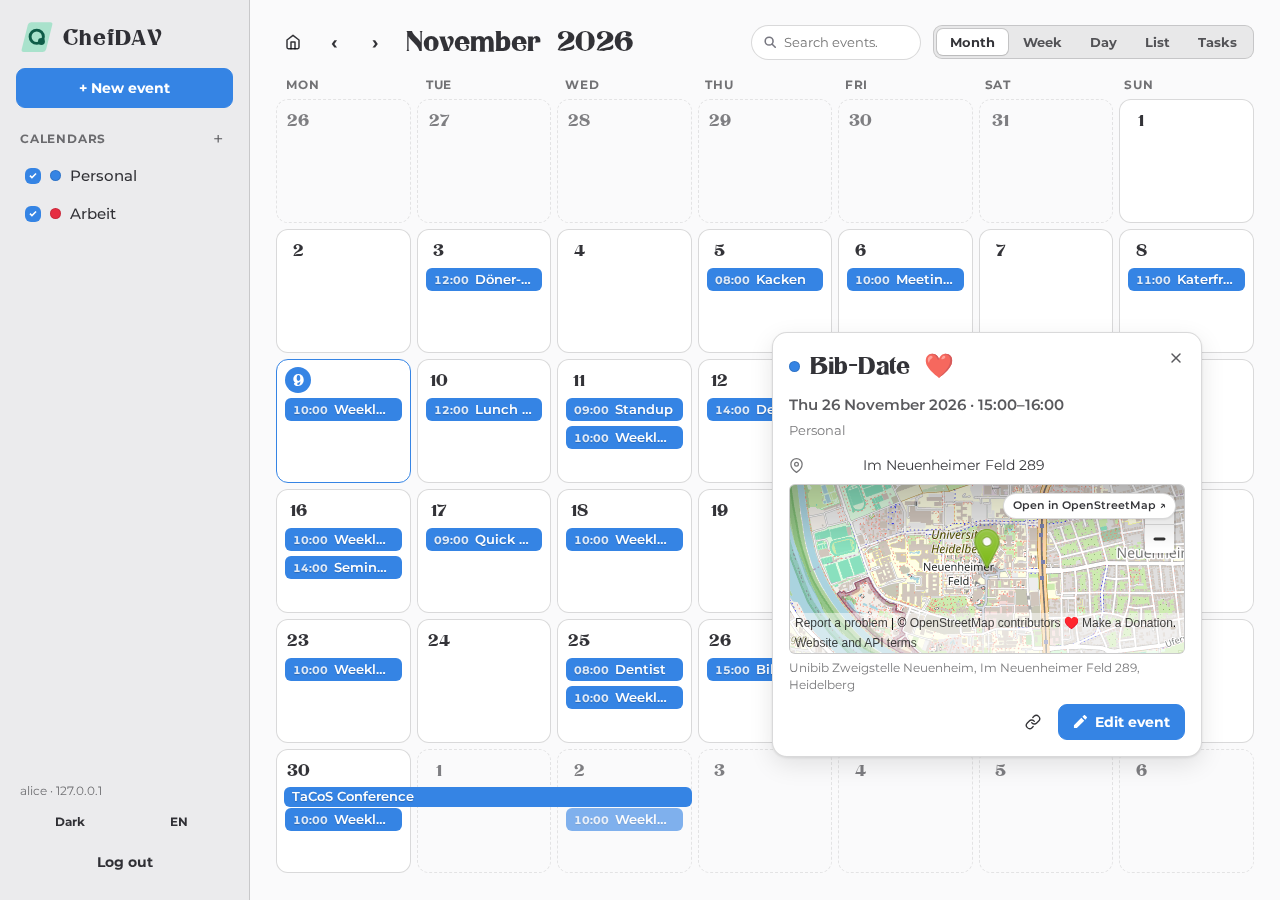
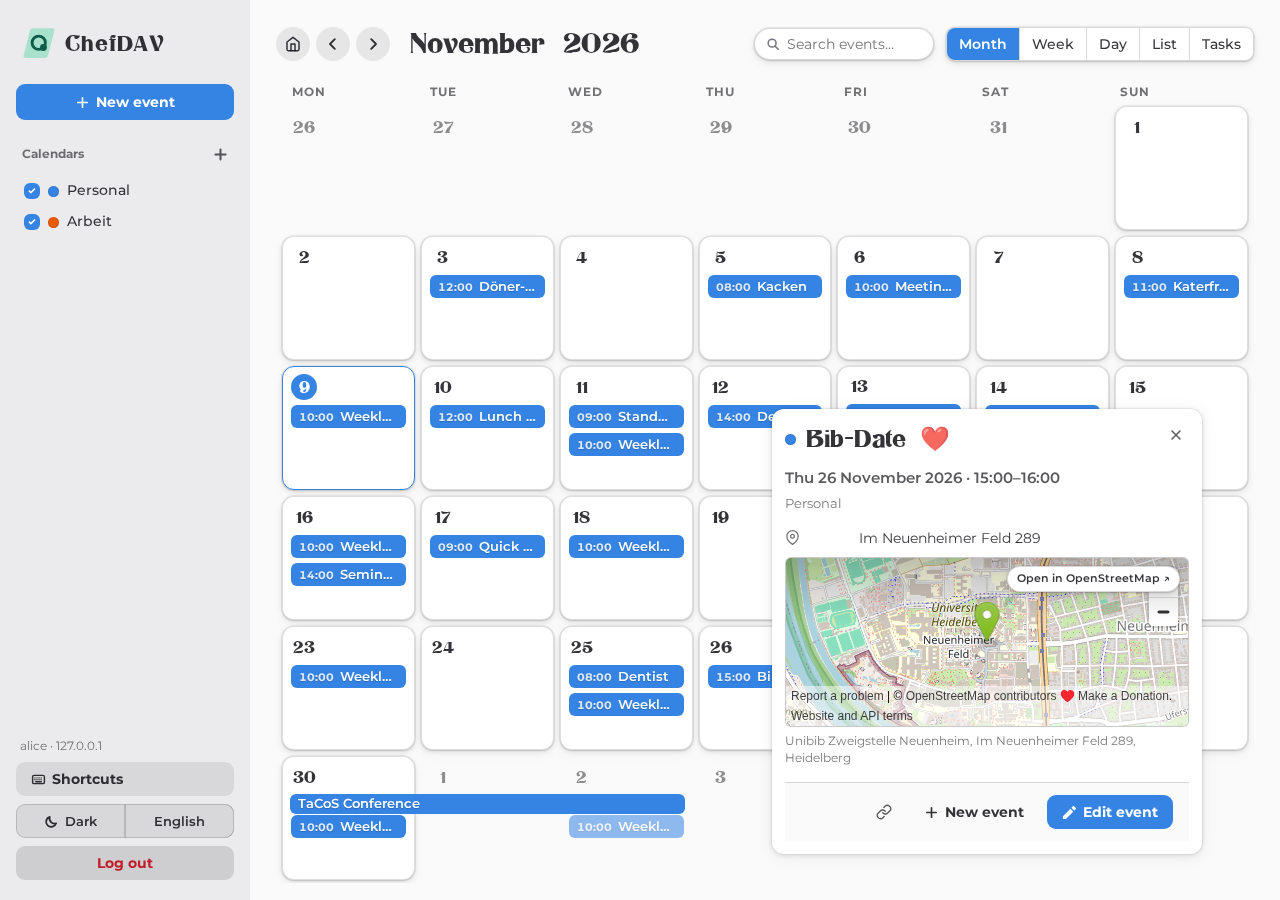
release: 0.3.0
Interface
- Theme and language toggles use the same raised surface as the Shortcuts
  button in both themes, instead of the darker opaque mix.
- Day cards in the leftmost and rightmost month columns keep their shadow; the
  month scroll container has room for it.
- The month and year title buttons keep their hover background inside the title
  box, so it no longer gets cut off next to the next-arrow button.
- Creating an event with no calendar shows "Please create a calendar first"
  instead of the read-only notice.

Login page
- Remove the IndexedDB credentials warning and the changelog block. The
  changelog stays in CHANGELOG.md; docs that referenced the login display are
  updated.

Release
- Version 0.3.0 in both Cargo.toml files.
- CHANGELOG: 0.3.0 section for the Adwaita pass, Docker image, shortcuts dialog
  and the fixes.
- Screenshots regenerated from the audit and location suites (month, week,
  list, details with map).

diff --git a/style/main.css b/style/main.css
@@ -219,54 +219,6 @@ button {
   padding: 28px 28px 22px;
 }
 
-.changelog {
-  margin-top: 14px;
-  border-top: 1px solid var(--line);
-  padding-top: 12px;
-  font-size: 12px;
-  color: var(--ink-soft);
-}
-
-.changelog summary {
-  cursor: pointer;
-  font-weight: 600;
-  color: var(--ink-soft);
-  list-style: none;
-}
-
-.changelog summary::-webkit-details-marker {
-  display: none;
-}
-
-.changelog summary::before {
-  content: "▸ ";
-  color: var(--accent);
-}
-
-.changelog[open] summary::before {
-  content: "▾ ";
-}
-
-.changelog-version {
-  color: var(--ink-faint);
-  font-weight: 500;
-  margin-left: 4px;
-}
-
-.changelog ul {
-  margin: 8px 0 0;
-  padding-left: 18px;
-  display: flex;
-  flex-direction: column;
-  gap: 3px;
-  max-height: 160px;
-  overflow-y: auto;
-}
-
-.changelog li {
-  line-height: 1.35;
-}
-
 .login-brand {
   text-align: center;
   margin-bottom: 22px;
@@ -556,13 +508,6 @@ input[type="checkbox"]:focus-visible {
   padding: 0 16px;
 }
 
-.login-hint {
-  margin: 16px 0 0;
-  font-size: 12px;
-  color: var(--ink-faint);
-  text-align: center;
-}
-
 /* ---------- app shell ---------- */
 
 .app-shell {
@@ -784,8 +729,8 @@ input[type="checkbox"]:focus-visible {
   color: inherit;
   background: transparent;
   border: none;
-  padding: 0 4px;
-  margin: 0 -4px;
+  padding: 2px 6px;
+  margin: 0;
   border-radius: var(--radius-xs);
   cursor: pointer;
   font-family: var(--font-display);
@@ -954,6 +899,8 @@ input[type="checkbox"]:focus-visible {
 .month-scroll {
   width: 100%;
   overflow-x: auto;
+  /* room for the day cards' shadow; overflow-x clips it at the edges */
+  padding: 3px 6px;
 }
 
 .weekdays {
@@ -2585,11 +2532,10 @@ input[type="checkbox"]:focus-visible {
   color: var(--ink);
 }
 
-/* linked buttons (Adw linked box) — the footer's Dark/Light and DE/EN
-   toggles. They sit on the *sidebar*, where the 10 % raised tint is
-   invisible, so they use libadwaita's opaque standalone surface
-   (`--btn-bg-solid`, = window_bg 85 % + window_fg) plus a hairline, and the
-   two halves share one border the way Adwaita's `.linked` does. */
+/* linked buttons (Adw linked box) — the footer's theme and language
+   toggles. They use the same raised surface as the standalone sidebar
+   buttons (`--btn-bg`), plus a hairline so the two halves read as one
+   control the way Adwaita's `.linked` does. */
 .prefs-row {
   display: flex;
   gap: 0;
@@ -2603,7 +2549,7 @@ input[type="checkbox"]:focus-visible {
   font-size: 13px;
   font-weight: 600;
   border-radius: 0;
-  background: var(--btn-bg-solid);
+  background: var(--btn-bg);
   color: var(--ink);
   box-shadow: inset 0 0 0 1px var(--line);
 }
@@ -2625,12 +2571,12 @@ input[type="checkbox"]:focus-visible {
 }
 
 .prefs-row .btn:hover {
-  background: var(--btn-bg-solid-hover);
+  background: var(--btn-bg-hover);
   z-index: 1;
 }
 
 .prefs-row .btn:active {
-  background: var(--btn-bg-solid-active);
+  background: var(--btn-bg-active);
 }
 
 .prefs-row .btn:focus-visible {

diff --git a/src/views/login.rs b/src/views/login.rs
@@ -13,75 +13,6 @@ use crate::components::prefs::PrefsRow;
 use crate::state::AppState;
 use crate::store::{self, LastLogin, StoredCreds};
 
-const CHANGELOG: &str = include_str!("../../CHANGELOG.md");
-
-
-
-/// Latest changelog section: (title, bullet items).
-fn latest_changelog() -> (String, Vec<String>) {
-    parse_latest_changelog(CHANGELOG)
-}
-
-fn parse_latest_changelog(text: &str) -> (String, Vec<String>) {
-    let mut title = String::new();
-    let mut items = Vec::new();
-    let mut current: Option<String> = None;
-    let mut in_section = false;
-    for line in text.lines() {
-        let line = line.trim_end();
-        if line.starts_with("## ") {
-            if in_section {
-                break;
-            }
-            in_section = true;
-            title = line.trim_start_matches("## ").to_string();
-            continue;
-        }
-        if !in_section {
-            continue;
-        }
-        if let Some(item) = line.strip_prefix("- ").or_else(|| line.strip_prefix("* ")) {
-            if let Some(prev) = current.take() {
-                items.push(prev);
-            }
-            current = Some(item.trim().to_string());
-        } else if line.starts_with('#') {
-            // subheadings (### …) are not list items; close the current one
-            if let Some(prev) = current.take() {
-                items.push(prev);
-            }
-        } else if line.trim().is_empty() {
-            if let Some(prev) = current.take() {
-                items.push(prev);
-            }
-        } else if let Some(cur) = current.as_mut() {
-            // wrapped continuation of the current bullet
-            cur.push(' ');
-            cur.push_str(line.trim());
-        }
-    }
-    if let Some(prev) = current {
-        items.push(prev);
-    }
-    (title, items)
-}
-
-#[cfg(test)]
-mod tests {
-    use super::parse_latest_changelog;
-
-    #[test]
-    fn latest_section_joins_wrapped_bullets_and_skips_subheadings() {
-        let text = "# Changelog\n\n## Unreleased\n\n### Redesign\n\n- First bullet\n  continues here.\n\n- Second *bullet*\n\n## 0.1.0 — yesterday\n\n- Old item\n";
-        let (title, items) = parse_latest_changelog(text);
-        assert_eq!(title, "Unreleased");
-        assert_eq!(
-            items,
-            vec!["First bullet continues here.", "Second *bullet*"]
-        );
-    }
-}
-
 #[component]
 pub fn LoginPage() -> impl IntoView {
     let state = use_context::<AppState>().unwrap();
@@ -105,7 +36,6 @@ pub fn LoginPage() -> impl IntoView {
     let error = RwSignal::new(None::<String>);
     // Extra context for a failed connection (e.g. "this looks like CORS").
     let hint = RwSignal::new(None::<String>);
-    let (changelog_title, changelog_items) = latest_changelog();
 
     // Prefill the last used server/username (and the password when it was
     // saved). The checkbox mirrors the persisted "stay logged in" choice.
@@ -274,22 +204,6 @@ pub fn LoginPage() -> impl IntoView {
                         {move || if busy.get() { crate::i18n::t(state.lang.get(), "connecting") } else { crate::i18n::t(state.lang.get(), "login") }}
                     </button>
                 </form>
-                <p class="login-hint">
-                    {move || crate::i18n::t(state.lang.get(), "login_hint")}
-                </p>
-                <details class="changelog">
-                    <summary>
-                        {move || crate::i18n::t(state.lang.get(), "whats_new")} 
-                        <span class="changelog-version">{changelog_title}</span>
-                    </summary>
-                    <ul>
-                        <For
-                            each=move || changelog_items.clone()
-                            key=|item| item.clone()
-                            children=|item| view! { <li>{item}</li> }
-                        />
-                    </ul>
-                </details>
                 <div class="login-prefs">
                     <PrefsRow />
                 </div>

diff --git a/src/i18n.rs b/src/i18n.rs
@@ -354,9 +354,8 @@ pub fn t(lang: Lang, key: &str) -> &'static str {
         (Lang::De, "no_tasks") => "Noch keine Aufgaben. Lege eine an.",
         (Lang::De, "go_to_day") => "Zum Tag",
         (Lang::De, "read_only_calendar") => "Dieser Kalender ist schreibgeschützt.",
+        (Lang::De, "create_calendar_first") => "Bitte erstelle zuerst einen Kalender.",
         (Lang::De, "tagline") => "Dein CalDAV-Kalender, frisch serviert — 100 % im Browser.",
-        (Lang::De, "login_hint") => "Mit \"Auf diesem Gerät angemeldet bleiben\" werden die Zugangsdaten in der IndexedDB dieses Browsers gespeichert (vorerst unverschlüsselt). Auf geteilten Geräten ausschalten. Der Server sieht nur Basic Auth über deinen CORS-Proxy; wer sich anmelden darf, entscheidet Radicale (LDAP).",
-        (Lang::De, "whats_new") => "Was ist neu",
         (Lang::De, "search_placeholder") => "Termine suchen…",
         (Lang::De, "no_matching_events") => "Keine passenden Termine.",
         (Lang::De, "search_min_chars") => "Mindestens 2 Zeichen eingeben, um zu suchen.",
@@ -375,7 +374,6 @@ pub fn t(lang: Lang, key: &str) -> &'static str {
         (Lang::De, "lock") => "Schreibgeschützt",
         (Lang::De, "new_event_short") => "Termin",
         (Lang::De, "new_task_short") => "Aufgabe",
-        (Lang::De, "changelog") => "Changelog",
         (Lang::De, "custom") => "Eigene",
         (Lang::De, "dark") => "Dunkel",
         (Lang::De, "light") => "Hell",
@@ -525,9 +523,8 @@ pub fn t(lang: Lang, key: &str) -> &'static str {
         (_, "no_tasks") => "No tasks yet. Add one to get started.",
         (_, "go_to_day") => "Go to day",
         (_, "read_only_calendar") => "This calendar is read-only.",
+        (_, "create_calendar_first") => "Please create a calendar first.",
         (_, "tagline") => "Your CalDAV calendar, served fresh — 100% in your browser.",
-        (_, "login_hint") => "With \"Stay logged in\" on, your credentials are kept in this browser's IndexedDB (unencrypted for now). Turn it off on shared devices. The server only sees Basic auth via your CORS-enabled proxy; who may log in is decided by Radicale (LDAP).",
-        (_, "whats_new") => "What's new",
         (_, "search_placeholder") => "Search events…",
         (_, "no_matching_events") => "No matching events.",
         (_, "search_min_chars") => "Type at least 2 characters to search.",
@@ -546,7 +543,6 @@ pub fn t(lang: Lang, key: &str) -> &'static str {
         (_, "lock") => "Read-only",
         (_, "new_event_short") => "New event",
         (_, "new_task_short") => "New task",
-        (_, "changelog") => "Changelog",
         (_, "custom") => "Custom",
         (_, "dark") => "Dark",
         (_, "light") => "Light",

diff --git a/src/components/event_modal.rs b/src/components/event_modal.rs
@@ -290,6 +290,12 @@ pub fn EventModal() -> impl IntoView {
     let saving = RwSignal::new(false);
     let error = RwSignal::new(None::<String>);
 
+    // A new event with no writable calendar is not "read-only"; there is
+    // simply nowhere to put it yet.
+    let no_calendar = Memo::new(move |_| {
+        existing.get().is_none() && state.first_writable_event_calendar().is_none()
+    });
+
     let read_only = Memo::new(move |_| {
         existing
             .get()
@@ -520,7 +526,10 @@ pub fn EventModal() -> impl IntoView {
         <div class="modal-overlay" on:click=close>
             <div class="modal" on:click=move |e| e.stop_propagation() role="dialog" aria-modal="true">
                 <h3>{move || if is_edit { crate::i18n::t(state.lang.get(), "edit_event") } else { crate::i18n::t(state.lang.get(), "new_event") }}</h3>
-                <Show when=move || read_only.get() fallback=|| ()>
+                <Show when=move || no_calendar.get() fallback=|| ()>
+                    <p class="banner-info">{move || crate::i18n::t(state.lang.get(), "create_calendar_first")}</p>
+                </Show>
+                <Show when=move || read_only.get() && !no_calendar.get() fallback=|| ()>
                     <p class="banner-info">{move || crate::i18n::t(state.lang.get(), "read_only_calendar")}</p>
                 </Show>
                 <fieldset class="modal-fields" disabled=move || read_only.get()>

diff --git a/CHANGELOG.md b/CHANGELOG.md
@@ -1,9 +1,12 @@
 # Changelog
 
-All notable, user-visible changes to ChefDAV. The login screen shows the latest
-section of this file, baked into each build.
+All notable, user-visible changes to ChefDAV.
 
 ## Unreleased
+
+Nothing yet.
+
+## 0.3.0 — 2026-11-19
 
 ### Fixes
 
@@ -73,6 +76,16 @@ libadwaita's stylesheet.
   Views and Navigation. Escape or a click outside closes it.
 - The light/dark toggle shows a sun or moon icon, and the language toggle spells
   out English and German instead of EN and DE.
+- The theme and language toggles use the same raised surface as the Shortcuts
+  button, in both themes, instead of the darker opaque mix.
+- Day cards in the leftmost and rightmost month columns keep their shadow; the
+  scroll container no longer clips it.
+- The month and year title buttons keep their hover background inside the title
+  box, so it is no longer cut off next to the next-arrow button.
+- The login page no longer shows the IndexedDB warning or the changelog. The
+  changelog lives in `CHANGELOG.md`.
+- Creating an event with no calendar says "Please create a calendar first"
+  instead of "This calendar is read-only".
 
 ### Re-skin to GNOME libadwaita
 

diff --git a/docs/RELEASING.md b/docs/RELEASING.md
@@ -3,8 +3,7 @@
 Each tag produces a Docker image (`ghcr.io/chefexperte/chefdav`) and, if you
 want one, a GitHub release.
 
-1. **Version.** The login screen shows the newest section of `CHANGELOG.md`, so
-   that section has to be the release. Rename `## Unreleased` to
+1. **Version.** Rename `## Unreleased` in `CHANGELOG.md` to
    `## X.Y.Z — YYYY-MM-DD` and add a fresh `## Unreleased` above it.
 2. **Checks.** `.github/workflows/ci.yml` has to be green: `cargo test -p caldav`,
    `cargo test -p chef-dav --lib` and the e2e suites.
